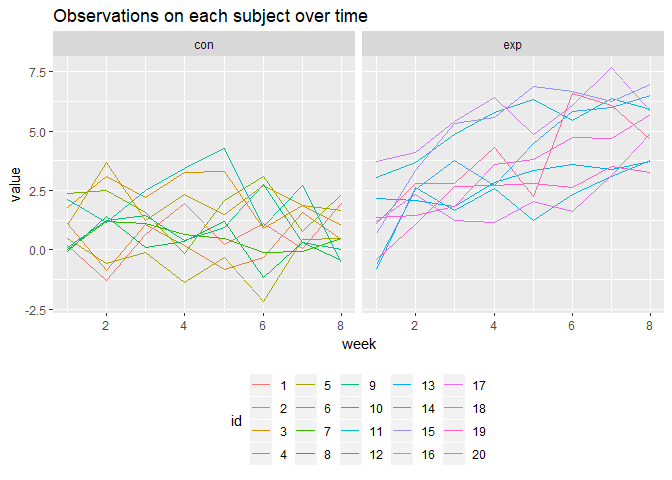
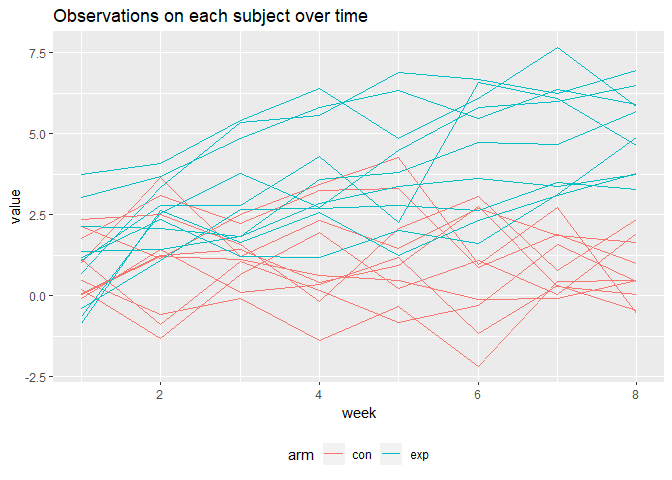
Do some modification on plots

diff --git a/p8105_hw5_rh2916.md b/p8105_hw5_rh2916.md
@@ -3,7 +3,7 @@ p8105\_hw5\_rh2916
 Rui Huang
 November 1, 2018
 
-Problem 1
+## Problem 1
 
 ### Start with a dataframe containing all file names
 
@@ -27,7 +27,7 @@ id = c(1:20)
 
 df_problem1 = cbind(df, id, output) %>%
   mutate(filename = str_replace(filename, ".csv", ""))%>%
-  separate(filename, into = c("control_arm", "subject_id"), sep = "_") %>%
+  separate(filename, into = c("arm", "subject_id"), sep = "_") %>%
   gather(key = week, value = observations, week_1:week_8) %>% 
   mutate(week = as.numeric(str_replace(week, "week_", "")),
          id = as.factor(id))
@@ -37,9 +37,8 @@ df_problem1 = cbind(df, id, output) %>%
 
 ``` r
 df_problem1 %>%
-  ggplot(aes(x = week, y = observations, color = id)) +
+  ggplot(aes(x = week, y = observations, group = id, color = arm)) +
   geom_line() +
-  facet_grid(~control_arm) +
   theme(legend.position = "bottom")+
   labs(
     x = "week",
@@ -50,11 +49,12 @@ df_problem1 %>%
 
 ![](p8105_hw5_rh2916_files/figure-gfm/unnamed-chunk-3-1.png)<!-- -->
 
-From the Spaghetti plot, we can find that the observations for subjects
-in experimental group increase over time while the observations for
-subjects in control group keep stable over weeks.
+From the Spaghetti plot, we can find that the baseline for the two group
+are similar, however, the observations for subjects in experimental
+group increase over time while the observations for subjects in control
+group keep stable over weeks.
 
-Problem 2
+## Problem 2
 
 ### Read data, add variable
 
@@ -72,15 +72,74 @@ contain information about the id, report date, victim demographic
 character, city, state, location and disposition. The reported\_date,
 lat and lon variables are numeric and the rest are factor variables.
 
-### summarize total number and unsolved number of homicides
+### Summarize total number and unsolved number of homicides
 
 ``` r
 df_summrize =
   df_problem2 %>% 
   group_by(city_state) %>% 
   summarize(total_homicide = n(),
-            unsolved_homicide = sum(disposition == "Closed without arrest" | disposition == "Open/No arrest"))
+            unsolved_homicide = sum(disposition == "Closed without arrest" | disposition == "Open/No arrest")) 
+
+knitr::kable(df_summrize)
 ```
+
+| city\_state       | total\_homicide | unsolved\_homicide |
+| :---------------- | --------------: | -----------------: |
+| Albuquerque,NM    |             378 |                146 |
+| Atlanta,GA        |             973 |                373 |
+| Baltimore,MD      |            2827 |               1825 |
+| Baton Rouge,LA    |             424 |                196 |
+| Birmingham,AL     |             800 |                347 |
+| Boston,MA         |             614 |                310 |
+| Buffalo,NY        |             521 |                319 |
+| Charlotte,NC      |             687 |                206 |
+| Chicago,IL        |            5535 |               4073 |
+| Cincinnati,OH     |             694 |                309 |
+| Columbus,OH       |            1084 |                575 |
+| Dallas,TX         |            1567 |                754 |
+| Denver,CO         |             312 |                169 |
+| Detroit,MI        |            2519 |               1482 |
+| Durham,NC         |             276 |                101 |
+| Fort Worth,TX     |             549 |                255 |
+| Fresno,CA         |             487 |                169 |
+| Houston,TX        |            2942 |               1493 |
+| Indianapolis,IN   |            1322 |                594 |
+| Jacksonville,FL   |            1168 |                597 |
+| Kansas City,MO    |            1190 |                486 |
+| Las Vegas,NV      |            1381 |                572 |
+| Long Beach,CA     |             378 |                156 |
+| Los Angeles,CA    |            2257 |               1106 |
+| Louisville,KY     |             576 |                261 |
+| Memphis,TN        |            1514 |                483 |
+| Miami,FL          |             744 |                450 |
+| Milwaukee,wI      |            1115 |                403 |
+| Minneapolis,MN    |             366 |                187 |
+| Nashville,TN      |             767 |                278 |
+| New Orleans,LA    |            1434 |                930 |
+| New York,NY       |             627 |                243 |
+| Oakland,CA        |             947 |                508 |
+| Oklahoma City,OK  |             672 |                326 |
+| Omaha,NE          |             409 |                169 |
+| Philadelphia,PA   |            3037 |               1360 |
+| Phoenix,AZ        |             914 |                504 |
+| Pittsburgh,PA     |             631 |                337 |
+| Richmond,VA       |             429 |                113 |
+| Sacramento,CA     |             376 |                139 |
+| San Antonio,TX    |             833 |                357 |
+| San Bernardino,CA |             275 |                170 |
+| San Diego,CA      |             461 |                175 |
+| San Francisco,CA  |             663 |                336 |
+| Savannah,GA       |             246 |                115 |
+| St. Louis,MO      |            1677 |                905 |
+| Stockton,CA       |             444 |                266 |
+| Tampa,FL          |             208 |                 95 |
+| Tulsa,AL          |               1 |                  0 |
+| Tulsa,OK          |             583 |                193 |
+| Washington,DC     |            1345 |                589 |
+
+In the dataset, there are two city Tulsa in both AL and OK. In Tulsa,
+AL, only one homicide and 0 unsolved homicide.
 
 ### Estimate the proportion of unsolved homicides in Baltimore, MD
 
@@ -90,33 +149,18 @@ Baltimore_homicide =
   filter(city_state == "Baltimore,MD") %>% 
   summarize(total_homicide = n()) 
 
-Baltimore_unsolved_homicides =
-  df_problem2 %>% 
-  filter(disposition == "Closed without arrest" | disposition == "Open/No arrest" ) %>% 
-  filter(city_state == "Baltimore,MD") %>% 
-  summarize(total_homicide = n())
+df_baltimore <- df_summrize %>% 
+  filter(city_state=='Baltimore,MD')
 
-Baltimore_proportion_of_unsolved_homicides =   
-  prop.test(Baltimore_unsolved_homicides[ ,1], Baltimore_homicide[    ,1]) %>% 
-  broom::tidy() %>%
-  janitor::clean_names()
+p.test <- prop.test(df_baltimore$unsolved_homicide,df_baltimore$total_homicide) 
 
-Baltimore_proportion_of_unsolved_homicides %>% pull(estimate) 
+broom::tidy(p.test)[,c(1,5,6)] %>% 
+  knitr::kable()
 ```
 
-    ## [1] 0.6455607
-
-``` r
-Baltimore_proportion_of_unsolved_homicides %>% pull(conf_low)
-```
-
-    ## [1] 0.6275625
-
-``` r
-Baltimore_proportion_of_unsolved_homicides %>% pull(conf_high)
-```
-
-    ## [1] 0.6631599
+|  estimate |  conf.low | conf.high |
+| --------: | --------: | --------: |
+| 0.6455607 | 0.6275625 | 0.6631599 |
 
 ### prop.test for each of the cities
 
@@ -147,8 +191,8 @@ df_estimate = df_summrize %>%
 ### Create a plot that shows the estimates and CIs for each city
 
 ``` r
-ggplot(df_estimate) +
-  geom_point(aes(x = city_state, y = estimate)) +
+ggplot(df_estimate, aes(x = city_state, y = estimate, color = city_state)) +
+  geom_point() +
   geom_errorbar(aes(x = city_state, ymin = conf_low, ymax = conf_high))+  
   labs(
     title = "Estimates and CIs for each city",
@@ -156,7 +200,13 @@ ggplot(df_estimate) +
     y = "Estimates and CIs"
   ) +
   theme(legend.position = "bottom", axis.text.x = element_text(angle = 90, hjust = 1), legend.key.width = unit(0.15,'cm')) +
-  scale_color_hue(name = "City")
+  theme(legend.position = "none")
 ```
 
 ![](p8105_hw5_rh2916_files/figure-gfm/unnamed-chunk-8-1.png)<!-- -->
+
+From the plot, we can find that Chicago, New Orleans, Baltimore have top
+three proportion of unsolved homicide. There is no unsolved case in
+Tulsa, AL, so the CI is 0 to 1. There might be some error on collecting
+data. When we exclude Tulsa, AL, Richmond has the lowest proportion of
+unsolved homicide.
